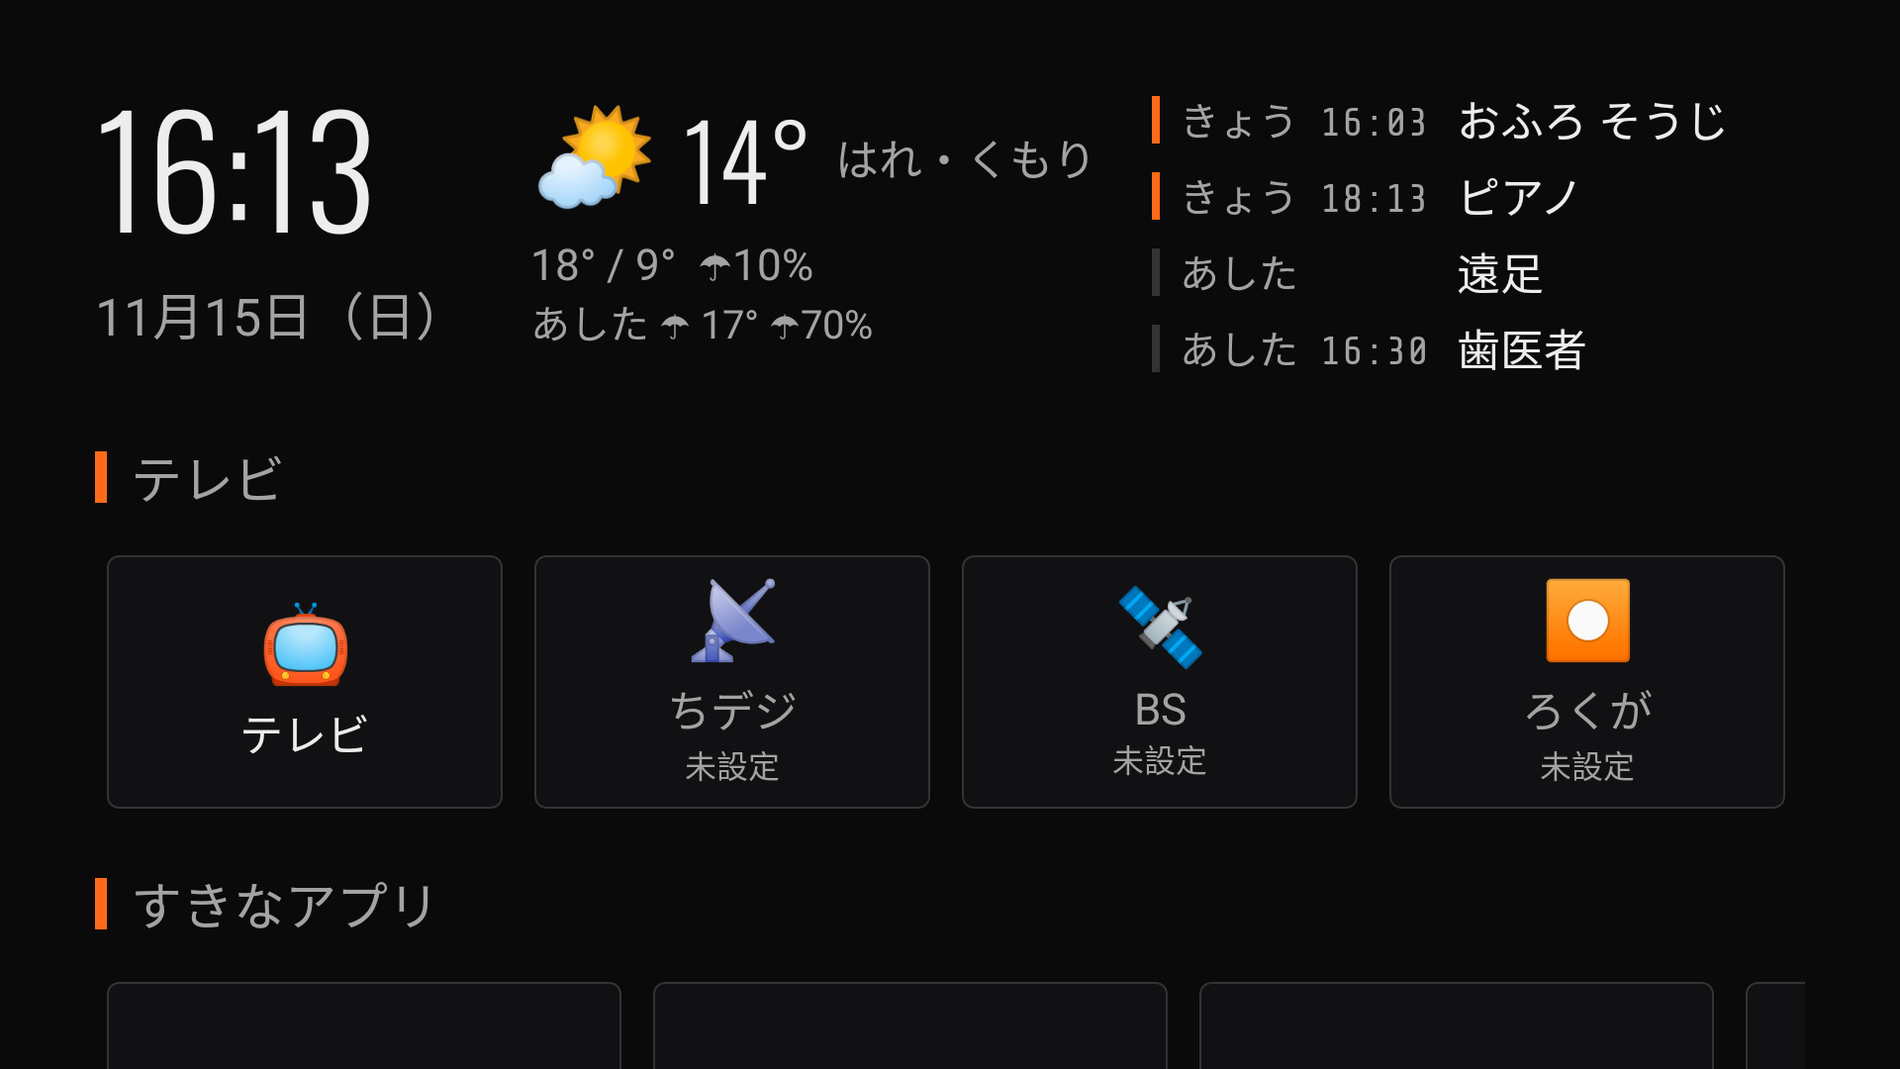
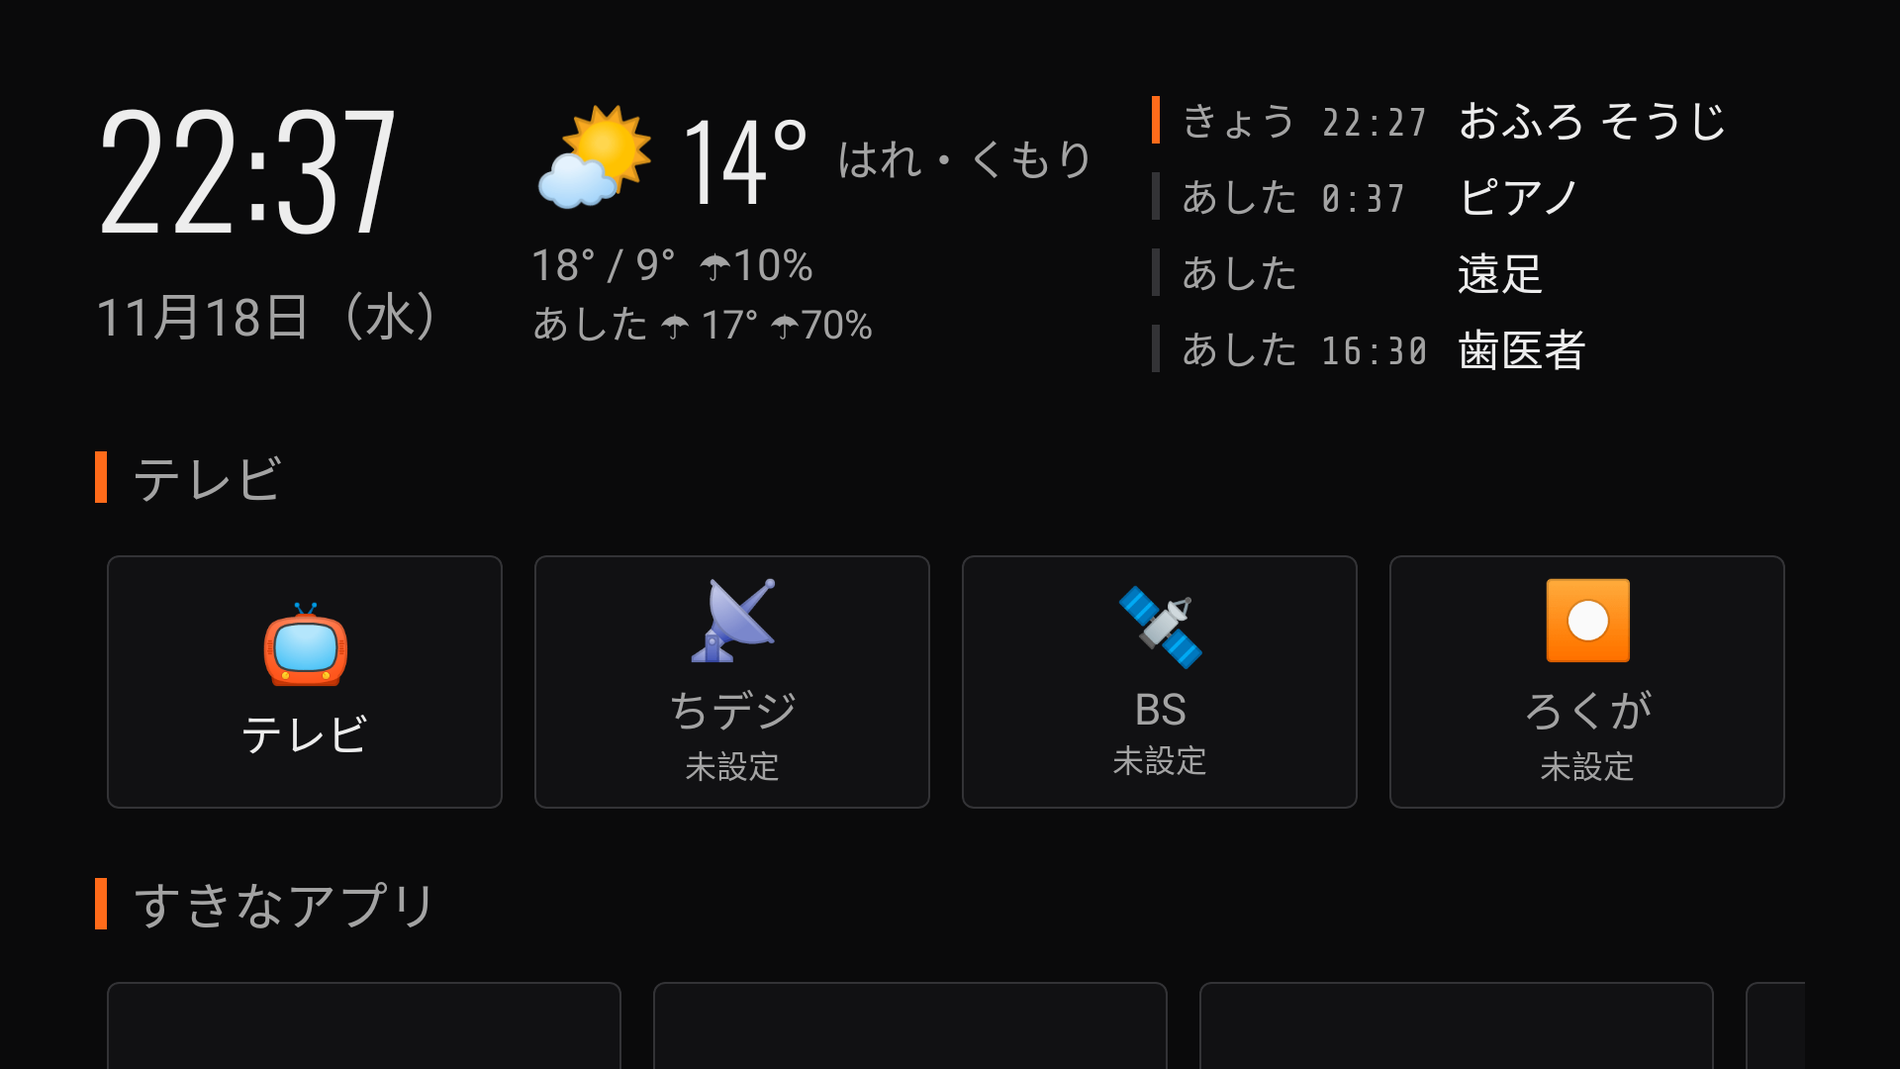
0.6.0：予定を Google カレンダーの API で（家族のアカウントを 1 回許可）。手順書を API に
Claude-Session: https://claude.ai/code/session_012DXkbyha4qRNRU1wCiPjQm

diff --git a/app/src/main/java/app/thetahatch/tvhome/data/GCal.kt b/app/src/main/java/app/thetahatch/tvhome/data/GCal.kt
@@ -1,0 +1,127 @@
+package app.thetahatch.tvhome.data
+
+import android.app.PendingIntent
+import android.content.Context
+import android.content.Intent
+import com.google.android.gms.auth.GoogleAuthUtil
+import com.google.android.gms.auth.api.identity.AuthorizationRequest
+import com.google.android.gms.auth.api.identity.AuthorizationResult
+import com.google.android.gms.auth.api.identity.Identity
+import com.google.android.gms.common.api.Scope
+import kotlinx.coroutines.suspendCancellableCoroutine
+import org.json.JSONObject
+import java.io.IOException
+import java.net.HttpURLConnection
+import java.net.URL
+import java.net.URLEncoder
+import java.time.LocalDate
+import java.time.OffsetDateTime
+import java.time.ZoneId
+import java.time.ZonedDateTime
+import java.time.format.DateTimeFormatter
+import kotlin.coroutines.resume
+import kotlin.coroutines.resumeWithException
+
+/**
+ * Google カレンダー（読むだけ）。テレビに入っている Google アカウント（家族の共用アカウント）で 1 回許可すれば、あとは画面を出さずに読める。
+ * Google Cloud の準備：シリーズのプロジェクトで Calendar API を有効に、テストユーザーに家族のアカウント、
+ * Android の OAuth クライアント（app.thetahatch.tvhome＋共通の鍵の SHA-1）。docs/GOOGLE_ACCOUNT.md。
+ * 出すカレンダーは、Google カレンダーの画面で「表示」にしているもの（calendarList の selected）。
+ */
+class GCal(private val context: Context) {
+    class NeedConsent(val intent: PendingIntent) : IOException("Google の許可が要ります")
+
+    @Volatile private var token: String? = null
+    @Volatile private var tokenAt = 0L
+
+    private val request get() = AuthorizationRequest.builder().setRequestedScopes(listOf(Scope(SCOPE))).build()
+
+    private suspend fun authorize(): AuthorizationResult = suspendCancellableCoroutine { cont ->
+        Identity.getAuthorizationClient(context).authorize(request)
+            .addOnSuccessListener { cont.resume(it) }
+            .addOnFailureListener { cont.resumeWithException(it) }
+    }
+
+    /** 許可済みなら画面を出さずにトークン。まだなら NeedConsent（許可の画面を出す）。 */
+    suspend fun token(): String {
+        token?.takeIf { System.currentTimeMillis() - tokenAt < 45 * 60_000 }?.let { return it }
+        val r = try { authorize() } catch (e: Exception) { throw IOException("Google の許可を取れませんでした（${e.message}）", e) }
+        if (r.hasResolution()) throw NeedConsent(r.pendingIntent ?: throw IOException("許可の画面を出せません"))
+        return accept(r)
+    }
+
+    /** 許可の画面から戻ってきたとき。 */
+    fun acceptResult(data: Intent?): Boolean = runCatching { accept(Identity.getAuthorizationClient(context).getAuthorizationResultFromIntent(data)) }.isSuccess
+
+    private fun accept(r: AuthorizationResult): String {
+        val t = r.accessToken ?: throw IOException("トークンを受け取れませんでした")
+        token = t; tokenAt = System.currentTimeMillis()
+        return t
+    }
+
+    /** from から days 日の予定（表示にしているカレンダーぜんぶ）。 */
+    suspend fun events(from: ZonedDateTime, days: Long, zone: ZoneId): List<Event> {
+        val t = token()
+        val list = JSONObject(get(t, "$API/users/me/calendarList?minAccessRole=reader&maxResults=100&fields=items(id,summary,backgroundColor,selected,hidden)"))
+        val items = list.optJSONArray("items") ?: return emptyList()
+        val cals = (0 until items.length()).map { items.getJSONObject(it) }.filter { !it.optBoolean("hidden") }
+        val shown = cals.filter { it.optBoolean("selected") }.ifEmpty { cals }
+        val min = from.format(DateTimeFormatter.ISO_OFFSET_DATE_TIME)
+        val max = from.plusDays(days).format(DateTimeFormatter.ISO_OFFSET_DATE_TIME)
+        val out = ArrayList<Event>()
+        for (c in shown) {
+            val id = URLEncoder.encode(c.getString("id"), "UTF-8")
+            val color = c.optString("backgroundColor")
+            var page: String? = null
+            do {
+                val url = "$API/calendars/$id/events?singleEvents=true&orderBy=startTime&maxResults=2500" +
+                    "&timeMin=" + URLEncoder.encode(min, "UTF-8") + "&timeMax=" + URLEncoder.encode(max, "UTF-8") +
+                    "&fields=nextPageToken,items(status,summary,location,start,end)" + (page?.let { "&pageToken=$it" } ?: "")
+                val o = runCatching { JSONObject(get(t, url)) }.getOrNull() ?: break
+                o.optJSONArray("items")?.let { a -> (0 until a.length()).mapNotNull { parse(a.getJSONObject(it), zone, color) }.forEach { out += it } }
+                page = o.optString("nextPageToken").ifEmpty { null }
+            } while (page != null)
+        }
+        return out.distinctBy { it.title to it.start }.sortedBy { it.start }
+    }
+
+    private fun get(t: String, url: String): String {
+        val c = URL(url).openConnection() as HttpURLConnection
+        c.connectTimeout = 15_000
+        c.readTimeout = 20_000
+        c.setRequestProperty("Authorization", "Bearer $t")
+        c.setRequestProperty("User-Agent", Net.UA)
+        val code = c.responseCode
+        if (code == 401) {
+            runCatching { GoogleAuthUtil.clearToken(context, t) }
+            token = null
+            throw IOException("Google の許可が切れました。もう一度読み込みます")
+        }
+        if (code / 100 != 2) {
+            val body = runCatching { c.errorStream?.use { String(it.readBytes()) } }.getOrNull().orEmpty()
+            val msg = runCatching { JSONObject(body).getJSONObject("error").getString("message") }.getOrDefault("HTTP $code")
+            throw IOException(if (msg.contains("has not been used", true) || msg.contains("disabled", true)) "Google Cloud で Calendar API を有効にしてください" else "カレンダー：$msg")
+        }
+        return c.inputStream.use { String(it.readBytes(), Charsets.UTF_8) }
+    }
+
+    companion object {
+        const val SCOPE = "https://www.googleapis.com/auth/calendar.readonly"
+        private const val API = "https://www.googleapis.com/calendar/v3"
+
+        /** 予定 1 件（Calendar API の events の 1 つ）。中止の予定は null。 */
+        fun parse(o: JSONObject, zone: ZoneId, color: String = ""): Event? {
+            if (o.optString("status") == "cancelled") return null
+            val s = o.optJSONObject("start") ?: return null
+            val e = o.optJSONObject("end")
+            fun time(x: JSONObject?): ZonedDateTime? = when {
+                x == null -> null
+                x.has("dateTime") -> OffsetDateTime.parse(x.getString("dateTime")).atZoneSameInstant(zone)
+                x.has("date") -> LocalDate.parse(x.getString("date")).atStartOfDay(zone)
+                else -> null
+            }
+            val start = time(s) ?: return null
+            return Event(o.optString("summary").ifBlank { "（題なし）" }, start, time(e), s.has("date") && !s.has("dateTime"), o.optString("location"), color)
+        }
+    }
+}

diff --git a/app/src/main/java/app/thetahatch/tvhome/HomeState.kt b/app/src/main/java/app/thetahatch/tvhome/HomeState.kt
@@ -11,6 +11,7 @@ import app.thetahatch.tvhome.data.Entries
 import app.thetahatch.tvhome.data.Entry
 import app.thetahatch.tvhome.data.Event
 import app.thetahatch.tvhome.data.Forecast
+import app.thetahatch.tvhome.data.GCal
 import app.thetahatch.tvhome.data.Ics
 import app.thetahatch.tvhome.data.Net
 import app.thetahatch.tvhome.data.Place
@@ -34,6 +35,9 @@ class HomeState(private val app: TvHomeApp) {
     val forecast = MutableStateFlow<Forecast?>(null)
     val events = MutableStateFlow<List<Event>>(emptyList())
     val calendarError = MutableStateFlow<String?>(null)
+    /** Google の許可の画面（MainActivity が出す）。 */
+    val consent = MutableStateFlow<android.app.PendingIntent?>(null)
+    val gcal by lazy { GCal(app) }
     /** 設定が変わるたびに増える（画面の読み直し用）。 */
     private val _tick = MutableStateFlow(0)
     val tick: StateFlow<Int> = _tick
@@ -75,24 +79,49 @@ class HomeState(private val app: TvHomeApp) {
         }
     }
 
-    fun refreshCalendar(force: Boolean = false) {
+    /**
+     * 予定：Google カレンダーにつないでいれば API（テレビの Google アカウント）、
+     * つないでいなくて iCal の非公開アドレスが入っていればそれ（予備。docs/GOOGLE_ACCOUNT.md）。
+     * 今週の月曜の 4 週前から 20 週（帯は 2 週、カレンダーは 4 週を 4 週前〜12 週先まで動かせる）。
+     */
+    fun refreshCalendar(force: Boolean = false, interactive: Boolean = false) {
         if (app.safeMode) return
-        if (!store.hasSecret("calendar.ics")) { events.value = emptyList(); calendarError.value = null; return }
+        val google = store.googleCalendar
+        if (!google && !store.hasSecret("calendar.ics")) { events.value = emptyList(); calendarError.value = null; return }
         if (!force && System.currentTimeMillis() - calendarAt < 30 * 60_000L) return
         calendarAt = System.currentTimeMillis()
         app.scope.launch {
+            val zone = ZoneId.systemDefault()
+            val today = ZonedDateTime.now(zone).toLocalDate()
+            val from = today.minusDays((today.dayOfWeek.value - 1).toLong()).minusWeeks(4).atStartOfDay(zone)
             runCatching {
                 withContext(Dispatchers.IO) {
-                    val urls = store.secret("calendar.ics").split('\n', ' ').map { it.trim() }.filter { it.startsWith("http") }
-                    val zone = ZoneId.systemDefault()
-                    // 今週の月曜の 4 週前から 20 週（帯は 2 週、カレンダーは 4 週を 4 週前〜12 週先まで動かせる）
-                    val today = ZonedDateTime.now(zone).toLocalDate()
-                    val from = today.minusDays((today.dayOfWeek.value - 1).toLong()).minusWeeks(4).atStartOfDay(zone)
-                    urls.flatMap { u -> Ics.events(Net.get(u.replaceFirst("webcal://", "https://")), from, 140, zone) }.sortedBy { it.start }
+                    if (google) gcal.events(from, 140, zone)
+                    else store.secret("calendar.ics").split('\n', ' ').map { it.trim() }.filter { it.startsWith("http") || it.startsWith("webcal") }
+                        .flatMap { u -> Ics.events(Net.get(u.replaceFirst("webcal://", "https://")), from, 140, zone) }.sortedBy { it.start }
                 }
             }.onSuccess { events.value = it; calendarError.value = null }
-                .onFailure { calendarAt = 0; calendarError.value = it.message ?: "読めません" }
+                .onFailure { e ->
+                    calendarAt = 0
+                    if (e is GCal.NeedConsent) {
+                        // 許可の画面は、せっていで「つなぐ」を押したときだけ自分から出す（ふだんは知らせるだけ）
+                        if (interactive) consent.value = e.intent
+                        calendarError.value = "Google の許可が要ります（せってい → Google カレンダー）"
+                    } else calendarError.value = e.message ?: "読めません"
+                }
         }
+    }
+
+    /** せってい：Google カレンダーにつなぐ（許可の画面を出す）。 */
+    fun connectGoogle() {
+        store.googleCalendar = true
+        refreshCalendar(force = true, interactive = true)
+    }
+
+    /** 許可の画面から戻った。 */
+    fun onConsent(data: Intent?) {
+        consent.value = null
+        if (gcal.acceptResult(data)) refreshCalendar(force = true) else calendarError.value = "許可されませんでした"
     }
 
     fun launch(intent: Intent?): Boolean {

diff --git a/app/src/main/java/app/thetahatch/tvhome/ui/CrossBar.kt b/app/src/main/java/app/thetahatch/tvhome/ui/CrossBar.kt
@@ -516,7 +516,7 @@ private fun DayCell(d: LocalDate, today: LocalDate, evs: List<Event>, w: app.the
         }
         evs.take(if (full) 3 else 2).forEach { e ->
             Row(verticalAlignment = Alignment.CenterVertically) {
-                Box(Modifier.width(1.5.dp).height(9.dp).background(if (e.allDay) p.widget else p.accent))
+                Box(Modifier.width(1.5.dp).height(9.dp).background(eventColor(e) ?: if (e.allDay) p.widget else p.accent))
                 Spacer(Modifier.width(4.dp))
                 if (!e.allDay) { T(e.start.format(DateTimeFormatter.ofPattern("H:mm")), size = 6.5.sp, color = p.faint, font = Mono); Spacer(Modifier.width(3.dp)) }
                 T(e.title, size = if (full) 8.5.sp else 7.5.sp, color = if (full) p.fg else p.muted)
@@ -525,6 +525,9 @@ private fun DayCell(d: LocalDate, today: LocalDate, evs: List<Event>, w: app.the
         if (evs.size > (if (full) 3 else 2)) T("+${evs.size - if (full) 3 else 2}", size = 7.sp, color = p.faint)
     }
 }
+
+/** Google カレンダーの色（"#RRGGBB"）。 */
+private fun eventColor(e: Event): Color? = runCatching { if (e.color.length == 7) Color(android.graphics.Color.parseColor(e.color)) else null }.getOrNull()
 
 @Suppress("unused")
 private fun unusedDp(d: Dp) = abs(d.value)

diff --git a/app/src/main/java/app/thetahatch/tvhome/MainActivity.kt b/app/src/main/java/app/thetahatch/tvhome/MainActivity.kt
@@ -64,6 +64,17 @@ class MainActivity : ComponentActivity() {
             var pinAsk by remember { mutableStateOf<Pair<String, (String) -> Unit>?>(null) }
             var unlockedAt by remember { mutableStateOf(0L) }
             val current by screen
+            // Google の許可の画面（せってい →「Google カレンダーにつなぐ」）
+            val consentPi by app.state.consent.collectAsState()
+            val consentLauncher = androidx.activity.compose.rememberLauncherForActivityResult(androidx.activity.result.contract.ActivityResultContracts.StartIntentSenderForResult()) { r ->
+                app.state.onConsent(r.data)
+            }
+            androidx.compose.runtime.LaunchedEffect(consentPi) {
+                consentPi?.let { pi ->
+                    runCatching { consentLauncher.launch(androidx.activity.result.IntentSenderRequest.Builder(pi.intentSender).build()) }
+                        .onFailure { app.state.consent.value = null; app.toast("許可の画面を出せません") }
+                }
+            }
 
             /** おうちの人の番号で守る（番号が無い・5 分以内に入れたなら、そのまま）。 */
             val guarded: (() -> Unit) -> Unit = { action ->

diff --git a/app/src/main/java/app/thetahatch/tvhome/ui/Screens.kt b/app/src/main/java/app/thetahatch/tvhome/ui/Screens.kt
@@ -143,9 +143,11 @@ fun SettingsScreen(app: TvHomeApp, go: (String) -> Unit, askPin: (String, (Strin
 
         item { SectionTitle("カレンダー") }
         item {
-            RowButton("予定（iCal の非公開 URL）", if (s.hasSecret("calendar.ics")) "設定済み" else "未設定", onClick = { app.state.refreshCalendar(force = true) },
-                note = "URL は秘密なので ADB で入れます（README「カレンダー」）。押すと読み直します")
+            val err by app.state.calendarError.collectAsState()
+            RowButton("Google カレンダー", if (s.googleCalendar) "つないでいる" else "つないでいない", onClick = { app.state.connectGoogle() },
+                note = (err?.let { "$it ・ " } ?: "") + "押すと、テレビの Google アカウント（家族の共用アカウント）で許可して読み直します。出すのは Google カレンダーで「表示」にしているカレンダー")
         }
+        if (s.googleCalendar) item { RowButton("Google カレンダーを はずす", null, onClick = { s.googleCalendar = false; changed() }) }
 
         item { SectionTitle("テレビの入口") }
         items(entries, key = { it.key }) { e ->

diff --git a/app/src/main/java/app/thetahatch/adb/CommandReceiver.kt b/app/src/main/java/app/thetahatch/adb/CommandReceiver.kt
@@ -111,6 +111,7 @@ class CommandReceiver : BroadcastReceiver() {
             key == "ui.skin" -> s.skin
             key == "ui.layout" -> s.layout
             key == "kids.theme" -> s.kidTheme
+            key == "calendar.google" -> s.googleCalendar
             key == "weather.place" -> s.weatherPlace
             key == "kids.mode" -> s.kidsMode
             key == "apps.favorites" -> s.favorites.joinToString(",")
@@ -129,6 +130,7 @@ class CommandReceiver : BroadcastReceiver() {
             key == "ui.skin" -> s.skin = value
             key == "ui.layout" -> { if (value !in listOf("kids", "bar", "simple")) error("kids・bar・simple のどれか"); s.layout = value }
             key == "kids.theme" -> s.kidTheme = value
+            key == "calendar.google" -> s.googleCalendar = value == "true" || value == "1"
             key == "weather.place" -> { if (value.isNotBlank() && Place.decode(value) == null) error("\"緯度,経度,名前\" の形で"); s.weatherPlace = value }
             key == "kids.mode" -> s.kidsMode = value == "true" || value == "1"
             key == "kids.pin" -> s.setPin(value)

diff --git a/app/src/test/java/app/thetahatch/tvhome/LogicTest.kt b/app/src/test/java/app/thetahatch/tvhome/LogicTest.kt
@@ -114,4 +114,15 @@ class LogicTest {
         val c = app.thetahatch.tvhome.rescue.BackCounter()
         assertFalse((0 until 7).any { c.hit(t + it * 1000L) })
     }
+
+    @Test fun googleCalendarEvent() {
+        val timed = org.json.JSONObject("""{"summary":"歯医者","location":"駅前","start":{"dateTime":"2026-11-16T07:30:00Z"},"end":{"dateTime":"2026-11-16T08:00:00Z"}}""")
+        val e = app.thetahatch.tvhome.data.GCal.parse(timed, tokyo, "#7986cb")!!
+        assertEquals(16, e.start.hour)
+        assertFalse(e.allDay)
+        assertEquals("#7986cb", e.color)
+        val day = org.json.JSONObject("""{"summary":"遠足","start":{"date":"2026-11-18"},"end":{"date":"2026-11-19"}}""")
+        assertTrue(app.thetahatch.tvhome.data.GCal.parse(day, tokyo)!!.allDay)
+        assertEquals(null, app.thetahatch.tvhome.data.GCal.parse(org.json.JSONObject("""{"status":"cancelled","start":{"date":"2026-11-18"}}"""), tokyo))
+    }
 }

diff --git a/app/src/main/java/app/thetahatch/tvhome/data/Ics.kt b/app/src/main/java/app/thetahatch/tvhome/data/Ics.kt
@@ -8,7 +8,8 @@ import java.time.ZoneOffset
 import java.time.ZonedDateTime
 import java.time.format.DateTimeFormatter
 
-data class Event(val title: String, val start: ZonedDateTime, val end: ZonedDateTime?, val allDay: Boolean, val location: String = "")
+/** 予定 1 件。color は Google カレンダーの色（"#RRGGBB"、無ければ空）。 */
+data class Event(val title: String, val start: ZonedDateTime, val end: ZonedDateTime?, val allDay: Boolean, val location: String = "", val color: String = "")
 
 /**
  * iCalendar（.ics）を読む。Google カレンダーの「iCal 形式の非公開 URL」をそのまま使う想定。

diff --git a/app/src/main/java/app/thetahatch/tvhome/data/Store.kt b/app/src/main/java/app/thetahatch/tvhome/data/Store.kt
@@ -26,6 +26,11 @@ class Store(context: Context) {
         get() = prefs.getString("kids.theme", "usagi") ?: "usagi"
         set(v) = prefs.edit().putString("kids.theme", v).apply()
 
+    /** 予定を Google カレンダーの API で読む（せってい → Google カレンダーにつなぐ）。 */
+    var googleCalendar: Boolean
+        get() = prefs.getBoolean("calendar.google", false)
+        set(v) = prefs.edit().putBoolean("calendar.google", v).apply()
+
     var autoUpdate: Boolean
         get() = prefs.getBoolean("update.auto", true)
         set(v) = prefs.edit().putBoolean("update.auto", v).apply()

diff --git a/app/src/main/java/app/thetahatch/adb/Status.kt b/app/src/main/java/app/thetahatch/adb/Status.kt
@@ -40,6 +40,9 @@ object Status {
         val settings = JSONObject()
             .put("ui.layout", s.layout)
             .put("kids.theme", s.kidTheme)
+            .put("calendar.google", s.googleCalendar)
+            .put("calendar.error", app.state.calendarError.value)
+            .put("calendar.events", app.state.events.value.size)
             .put("weather.place", s.weatherPlace)
             .put("kids.mode", s.kidsMode)
             .put("kids.pin", s.hasPin())

diff --git a/docs/ADB.md b/docs/ADB.md
@@ -108,7 +108,7 @@ adb shell am broadcast -a app.thetahatch.adb.LAUNCH -n $W --es key terrestrial
 adb shell am broadcast -a app.thetahatch.adb.SET -n $W --es key weather.place --es value "35.44,139.64,横浜"
 ```
 
-カレンダー（家族のアカウントの Google カレンダーの「iCal 形式の非公開アドレス」。複数は改行で並べる。祝日の入れ方なども docs/GOOGLE_ACCOUNT.md ②）。**URL は秘密**なので、ファイルで渡して読んだら消す：
+カレンダーは、ふつうは TVhome のせってい →「Google カレンダー」で家族のアカウントを許可するだけ（docs/GOOGLE_ACCOUNT.md）。下の iCal は予備：**URL は秘密**なので、ファイルで渡して読んだら消す：
 
 ```bash
 adb push calendar.txt /sdcard/Android/data/app.thetahatch.tvhome/files/calendar.txt
